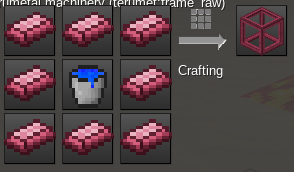
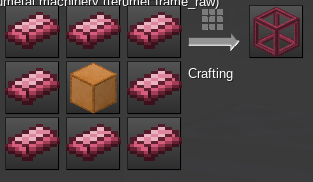
dumb machine frame recipe is less dumb

Changed region(s): [[0.0, 0.0, 0.7653, 0.9593], [0.7959, 0.0291, 0.9796, 0.3488], [0.2755, 0.0581, 0.3673, 0.0872]]

diff --git a/README.md b/README.md
@@ -53,7 +53,7 @@ You'll need heating coils made from pure terumetal. Note that you'll get 8 from 
 
 ![Terumetal Frame Recipe](tutorial/frame_recipe.PNG)
 
-Additionally, you'll need a basic Terumetal Machine Frame like above. The bucket of water might seem out of place, but in the final machine it acts as the 'battery' for the heat it uses to function. All Terumetal machinery runs on heat, so every machine frame has some sort of heat-storing element in the center.
+Additionally, you'll need a basic Terumetal Machine Frame like above. The copper block might seem out of place, but in the final machine it acts as a rudimentary 'battery' for the heat it uses to function. All Terumetal machinery runs on heat, so every machine frame has some sort of heat-storing element in the center.
 
 Once you have both of these materials, you're ready to make the Alloy Smelter itself:
 
